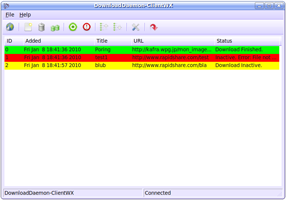
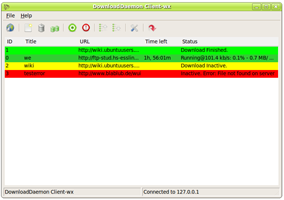
screenshot changes

diff --git a/src/ddclient-wx/ddclient-wx_main.cpp b/src/ddclient-wx/ddclient-wx_main.cpp
@@ -575,7 +575,7 @@ string myframe::build_status(string &status_text, string &time_left, vector<stri
 
 			if(splitted_line[6] == "0" || splitted_line[6] == "1"){ // download size unknown
 				stream_buffer << "0.00% - ";
-				time_left = "?";
+				time_left = "";
 
 				if(splitted_line[5] == "0" || splitted_line[5] == "1") // nothing downloaded yet
 					stream_buffer << "0.00 MB/ 0.00 MB";
@@ -591,7 +591,7 @@ string myframe::build_status(string &status_text, string &time_left, vector<stri
 						time_left = time_buffer.str();
 						cut_time(time_left);
 					}else
-						time_left = "?";
+						time_left = "";
 
 				}else{ // download size known and something downloaded
 					stream_buffer << setprecision(1) << fixed << (float)atol(splitted_line[5].c_str()) / (float)atol(splitted_line[6].c_str()) * 100 << "% - ";
@@ -603,7 +603,7 @@ string myframe::build_status(string &status_text, string &time_left, vector<stri
 						time_left = time_buffer.str();
 						cut_time(time_left);
 					}else
-						time_left = "?";
+						time_left = "";
 				}
 			}
 			status_text = stream_buffer.str();
